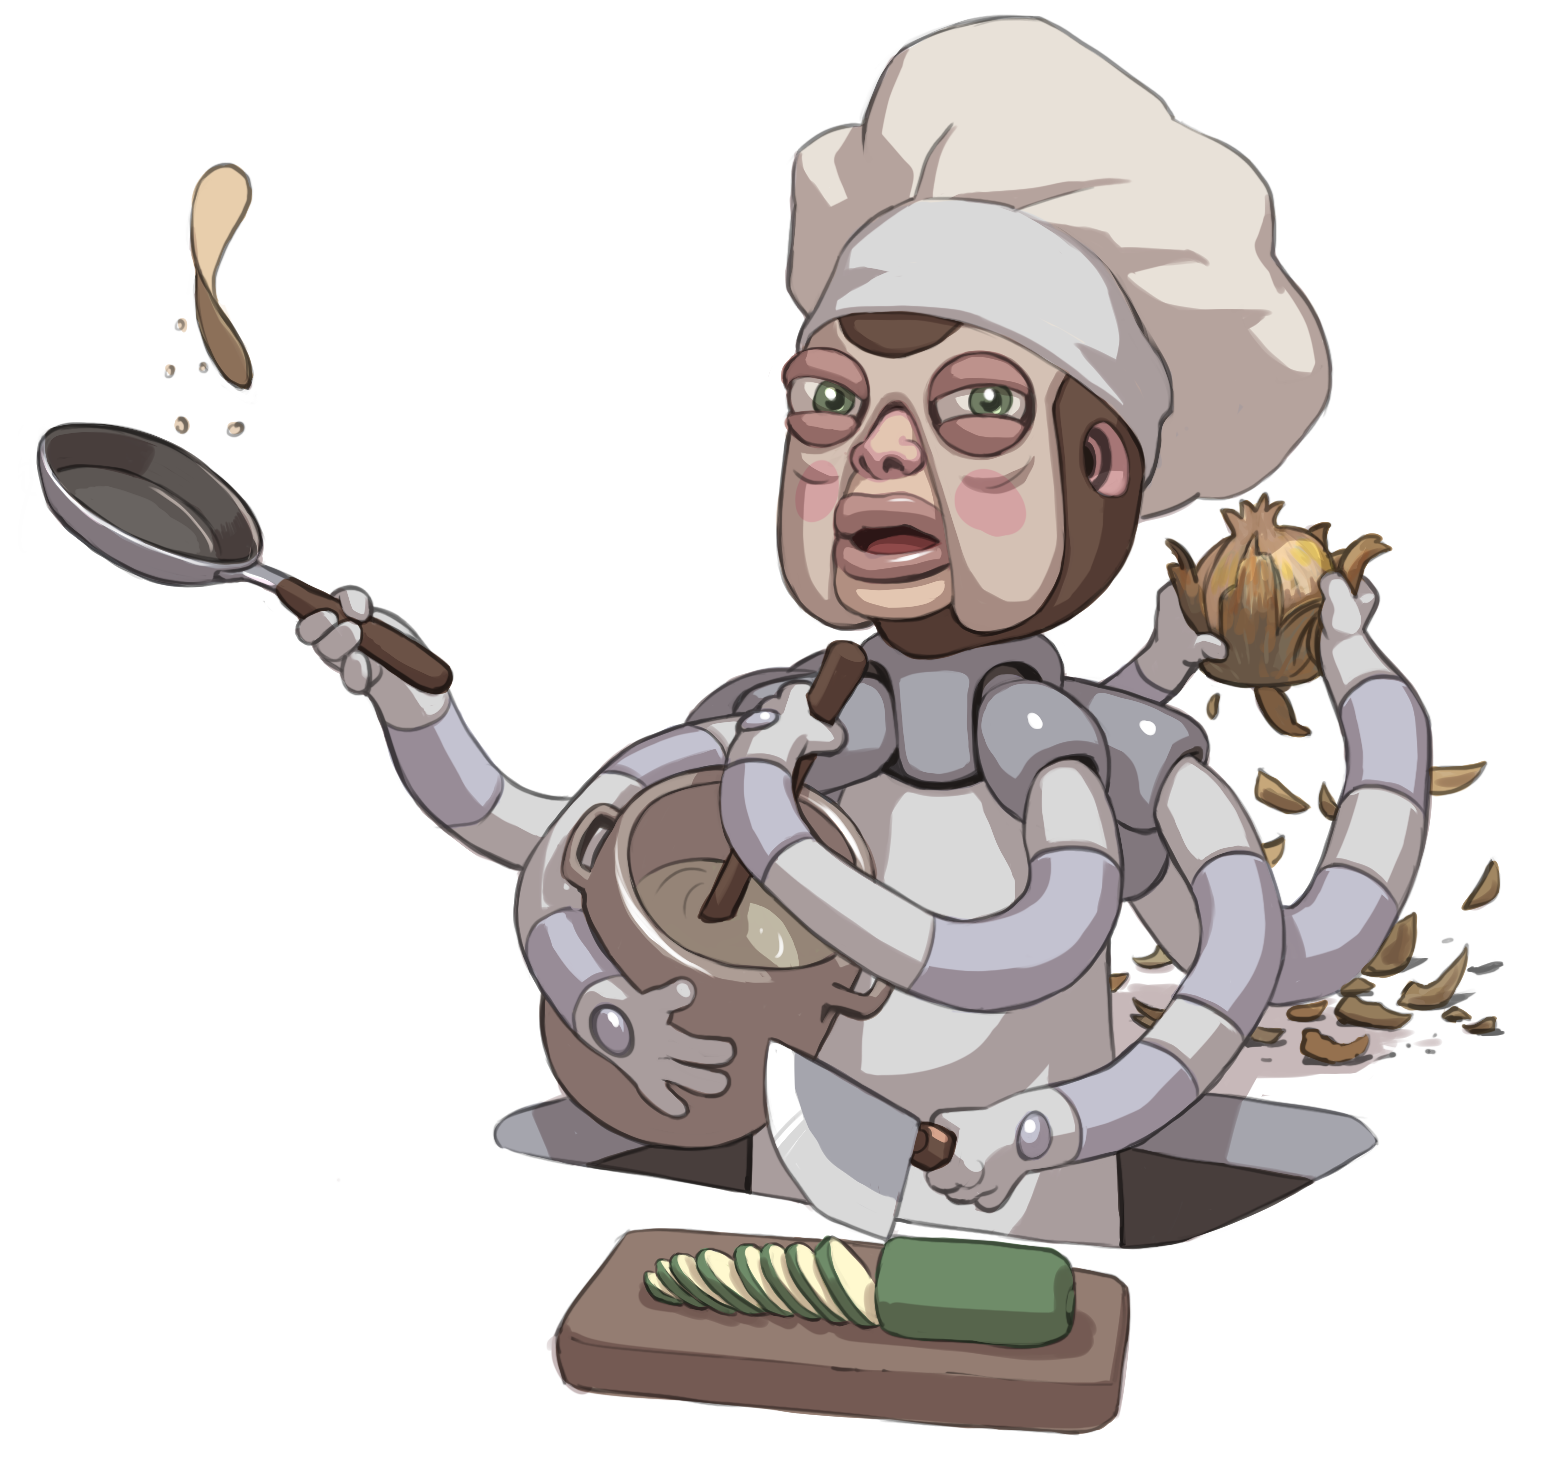
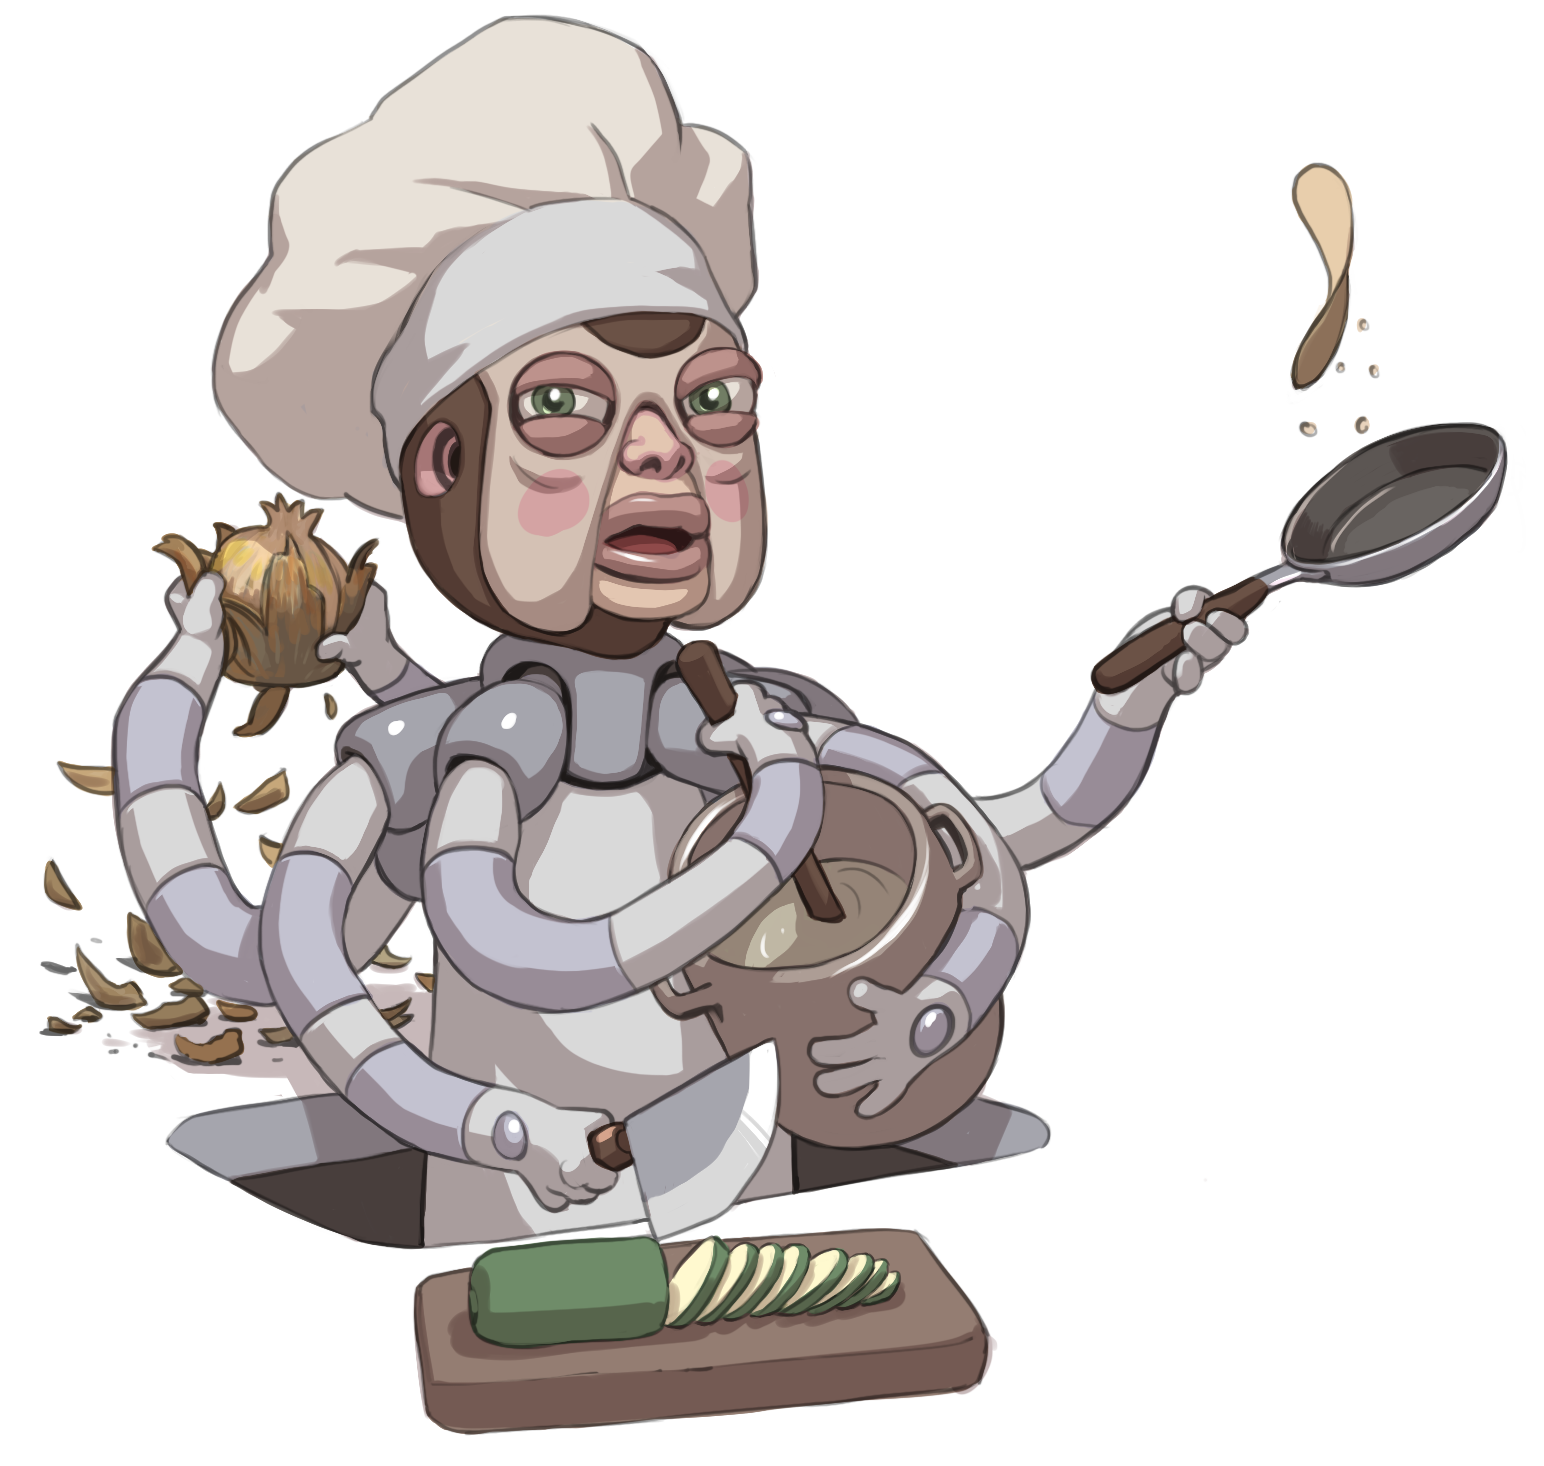
Move characters up to avoid text covering faces; flip Chef image

diff --git a/src/app/interview-pane/interview-pane.component.scss b/src/app/interview-pane/interview-pane.component.scss
@@ -18,21 +18,25 @@
         right: 0;
         background-size: 100%;
     }
+
+    &[data-bot-name="Chef"] .bot-name {
+        padding-right: 120px;
+    }
     
     &[data-bot-name="Chef"]::before {
-        margin-top: -70px;
+        margin-top: -110px;
         background: url(../../assets/images/chef.png) no-repeat;
         background-size: 100%;
     }
     
     &[data-bot-name="Maid"]::before {
-        margin-top: -45px;
+        margin-top: -120px;
         background: url(../../assets/images/maid.png) no-repeat;
         background-size: 82%;
     }
     
     &[data-bot-name="Butler"]::before {
-        margin-top: -80px;
+        margin-top: -125px;
         background: url(../../assets/images/butler.png) no-repeat;
         background-size: 100%;
     }
